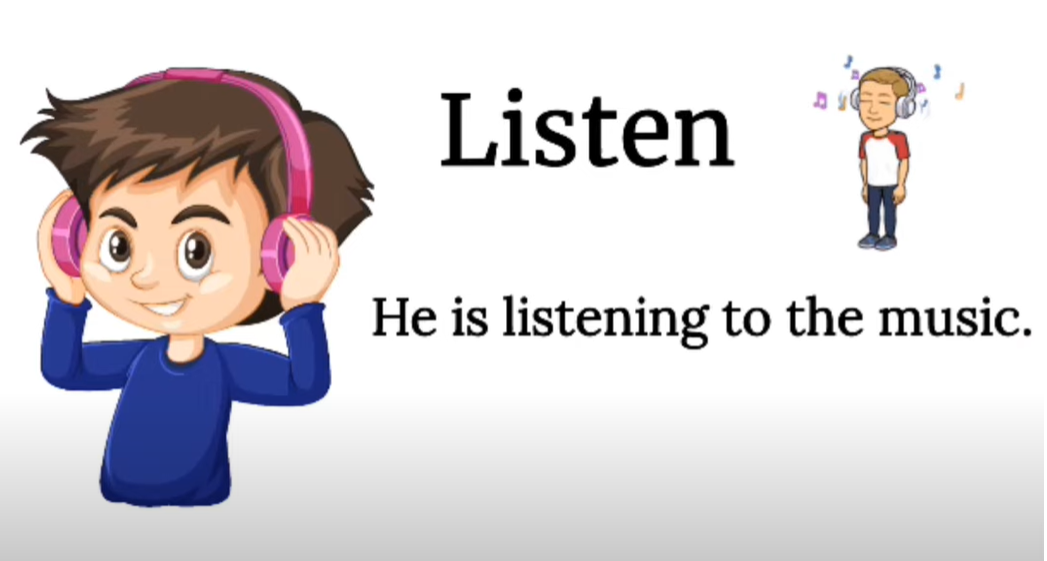
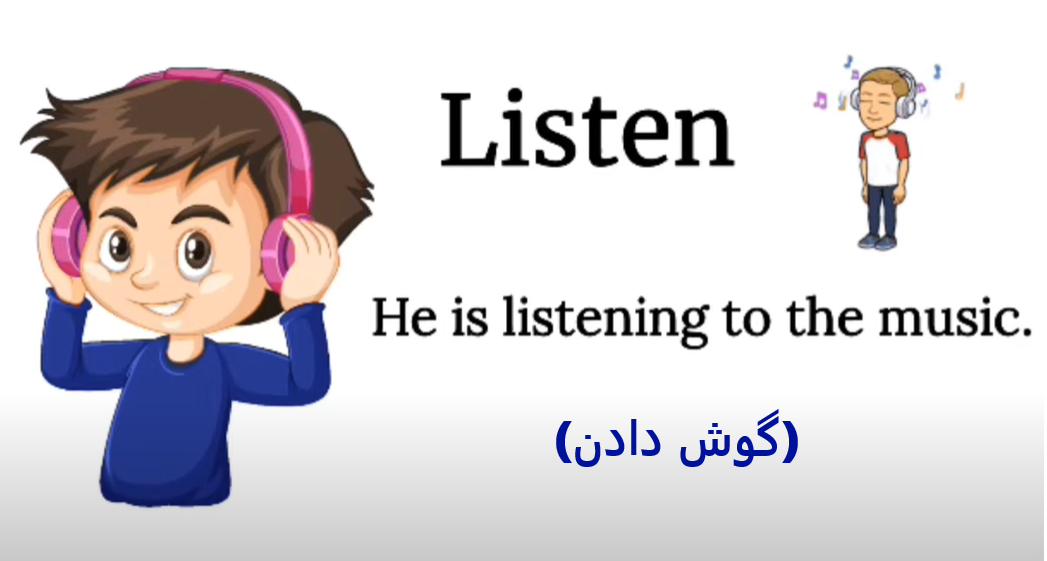
sentence picture is good now

Changed region(s): [[0.5196, 0.7273, 0.7641, 0.8485]]

diff --git a/src/component/classes/word/dataWord.js b/src/component/classes/word/dataWord.js
@@ -98,63 +98,63 @@ export let sentenceCarousel = {
         alphaColor : [
             {
                 image :"./images/assetWord/actionVerb/12-31-1-verb.png",
-                sylabelWord : ".ما در جاده راه می رویم",
+                sylabelWord : ".او در جاده راه می رَود",
             },
             {
                 image :"./images/assetWord/actionVerb/12-31-2-verb.png",
-                sylabelWord : "",
+                sylabelWord : ".او سریعتر از من می دود",
             },
             {
                 image :"./images/assetWord/actionVerb/12-31-3-verb.png",
-                sylabelWord : "",
+                sylabelWord : ".او دوچرخه سواری می کند",
             },
             {
                 image :"./images/assetWord/actionVerb/12-31-4-verb.png",
-                sylabelWord : "",
+                sylabelWord : ".آنها نمی توانند جَنگیدَن را متوقف کنند",
             },
             {
                 image :"./images/assetWord/actionVerb/12-31-5-verb.png",
-                sylabelWord : "",
+                sylabelWord : ".او به شوخی می خندد",
             },
             {
                 image :"./images/assetWord/actionVerb/12-31-6-verb.png",
-                sylabelWord : "",
+                sylabelWord : ".او یک کتاب انگلیسی می خواند",
             },
             {
                 image :"./images/assetWord/actionVerb/12-31-7-verb.png",
-                sylabelWord : "",
+                sylabelWord : ".آنها همیشه فوتبال بازی می کنند",
             },
             {
                 image :"./images/assetWord/actionVerb/12-31-8-verb.png",
-                sylabelWord : "",
+                sylabelWord : ".او در حال گوش دادن به موسیقی است",
             },
             {
                 image :"./images/assetWord/actionVerb/12-31-9-verb.png",
-                sylabelWord : "",
+                sylabelWord : ".تام وقتی به زمین افتاد گریه کرد",
             },
             {
                 image :"./images/assetWord/actionVerb/12-31-10-verb.png",
-                sylabelWord : "",
+                sylabelWord : ".پسر در فکر جابجایی هفته آینده است",
             },
             {
                 image :"./images/assetWord/actionVerb/12-31-11-verb.png",
-                sylabelWord : "",
+                sylabelWord : ".سارا در حال خواندن یک آهنگ روی صحنه است",
             },
             {
                 image :"./images/assetWord/actionVerb/12-31-12-verb.png",
-                sylabelWord : "",
+                sylabelWord : ".او یک فیلم کارتونی از تلویزیون تماشا می کند",
             },
             {
                 image :"./images/assetWord/actionVerb/12-31-13-verb.png",
-                sylabelWord : "",
+                sylabelWord : ".او روی زمین می رقصد",
             },
             {
                 image :"./images/assetWord/actionVerb/12-31-14-verb.png",
-                sylabelWord : "",
+                sylabelWord : ".او این جایزه را برای کسب مقام اول در مسابقه بَرَنده شد",
             },
             {
                 image :"./images/assetWord/actionVerb/12-31-15-verb.png",
-                sylabelWord : "",
+                sylabelWord : ".او در حال نوشتن یک داستان برای بچه ها است",
             },
         ]
     

diff --git a/src/component/classes/word/SentencePicture.js b/src/component/classes/word/SentencePicture.js
@@ -11,7 +11,7 @@ export const SentencePicture = (props) => {
     const test = ()=>{
         document.querySelector(`#${props.carouselName.idLetter}`).innerHTML =` 
                                     <div className="text-center">
-                                            <img style="width:150px" src="./images/webPic/cinnamoroll-1.gif"/>
+                                            <img style="width:150px" src="./images/webPic/sanrio-rentry.gif"/>
                                             <p>Come On!!!</p>
                                     </div>               
                                 `
@@ -31,8 +31,8 @@ export const SentencePicture = (props) => {
                                 document.querySelector(`#${props.carouselName.idLetter}`).innerHTML =` 
                                     <div className="text-center ">
                                         <div className="" style="width:100%; height:400px;">
-                                            <img src=${item.image} className=" " style="width:50%; height:100%"  alt=""/>
-                                            <img style="width:60px" src="./images/webPic/StrawberryPNG.webp"/>
+                                            <img src=${item.image} className=" " style="width:50%; height:100%; border-radius:20px;"  alt=""/>
+                                            <img style="width:60px;padding-left:20px" src="./images/webPic/StrawberryPNG.webp"/>
                                         </div>
                                                           
                                     </div>               
@@ -66,7 +66,7 @@ export const SentencePicture = (props) => {
             </div>
             {/* <hr className="bg-danger"/> <hr className="bg-danger"/> */}
             {/* **** End Carousel***** */}
-            <div className=" rounded-3   bg-info text-center text-light p-5" id={props.carouselName.idLetter}></div>
+            <div className=" rounded-3  text-center text-light p-5" id={props.carouselName.idLetter}></div>
             <hr className="p-2 bg-danger" />
             <br/><br/><br/><br/><br/>
         </section>
